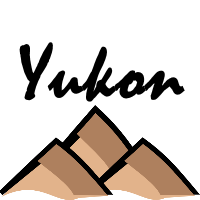
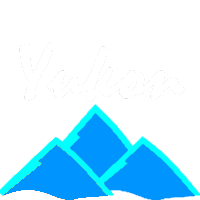
Implemented firebase for adding messages.

diff --git a/style.css b/style.css
@@ -1,8 +1,9 @@
 h1 {
     display: inline;
-    border: 2px solid darkgray;
+    border: 2px outset #C9FFE5;
     padding: 5px;
-    background: white;
+    background: #FFFFFF;
+    color: #000000;
     display: flex;
     justify-content: center;
     border-radius: 10px;
@@ -14,9 +15,13 @@ a {
 }
 
 html {
-    background-color: #DCDCDC;
+    background-color: #000000;
     font-family: 'Arial';
     height: 100%;
+}
+
+body {
+    min-height: 100%;
 }
 
 #yukonimage {
@@ -58,7 +63,6 @@ img:hover {
 }
 
 #chatlog::-webkit-scrollbar {
-    position: fixed;
     width: 10px;
 }
 
@@ -77,7 +81,7 @@ img:hover {
     width: 70%;
     padding: 15px;
     margin: 5px 10px 0;
-    background: darkgray;
+    background: #89CFF0;
     border-radius: 10px;
     color: #fff;
     font-size: 18px;
@@ -90,22 +94,23 @@ img:hover {
 }
 
 .chatform textarea {
-    background: #FBFBFB;
+    background: #DBE9F4;
     width: 75%;
     height: 50px;
-    border: 2px solid lightgray;
+    border: 2px solid #C9FFE5;
     border-radius: 10px;
     resize: none;
 }
 button {
-    border: 1px outset darkgray;
-    background-color: gray;
+    border: 2px outset #C9FFE5;
+    background-color: #7CB9E8;
     color: white;
     cursor: pointer;
 }
 
 button:hover {
-    background-color: silver;
+    background-color: #C9FFE5;
+    color: #000000;
 }
 
 button[id="send"] {
@@ -114,12 +119,39 @@ button[id="send"] {
     border-radius: 10px;
 }
 
+button[id="username"] {
+    display: flex;
+    justify-content: center;
+    margin: 0 auto;
+    font-size: 30px;
+    height: 70px;
+    width: 30%;
+    border-radius: 10px;
+}
+
 button[id="chat"] {
     display: flex;
     justify-content: center;
     margin: 0 auto;
-    font-size: 50px;
-    height: 100px;
-    width: 50%;
+    font-size: 25px;
+    height: 70px;
+    width: 30%;
     border-radius: 10px;
+}
+#enter_username {
+    display: flex;
+    justify-content: center;
+}
+
+#text_username {
+    display: flex;
+    justify-content: center;
+    background: #FBFBFB;
+    width: 30%;
+    height: 70px;
+    border: 2px solid lightgray;
+    border-radius: 10px;
+    resize: none;
+    text-align: center;
+    font-size: 25px;
 }

diff --git a/app.js b/app.js
@@ -1,33 +1,41 @@
-// function getText(text) {
-//     console.log(text.value);
-//     // Remove the text area content as the message has been stored.
-//     text.value="";
-// }
-
 function getText(text) {
     // Get the message from the textarea and store it in a variable 'msg'.
     var msg = document.getElementById("textarea");
-    // console.log(msg.value);
+
+    // If message is empty, alert no input!
+    if (msg.value == "") {
+        alert("Please enter a message!");
+        return false;
+    };
+
     // Insert the string as a div message and add to the chatbox.
     create(msg.value);
     var fragment = create("<div id=message>"+msg.value+"</div>");
     document.getElementById("chat").appendChild(fragment);
 
-    // TODO: Scroll to bottom of chatbox.
+    // Create a new reference to a location (folder) named messages.
+    let messagesRef = firebase.database().ref("messages");
+    // Create a new message in the firebase.
+    messagesRef.push().set(msg.value);
 
-    var objDiv = document.getElementById("chat");
-    objDiv.scrollTop = objDiv.scrollHeight;
+    // Scroll to bottom of chatbox.
+    scrollToBottom();
 
     // Remove the text area content as the message has been stored.
     textarea.value = "";
 }
 
 function create(htmlStr) {
-    var frag = document.createDocumentFragment(),
-        temp = document.createElement('div');
+    var frag = document.createDocumentFragment();
+    var temp = document.createElement('div');
+
     temp.innerHTML = htmlStr;
     while (temp.firstChild) {
         frag.appendChild(temp.firstChild);
     }
     return frag;
+}
+
+function scrollToBottom() {
+    document.getElementById("chatlog").scrollTop = document.getElementById("chatlog").scrollHeight;
 }

diff --git a/username.html b/username.html
@@ -3,18 +3,21 @@
     <meta charset="utf-8" name="viewport" content="width=device-width, initial-scale=1">
     <link rel="stylesheet" type="text/css" href="style.css">
     <head>
-        <title>Welcome - Yukon</title>
+        <title>Enter Username - Yukon</title>
         <div id="yukonimage">
                 <a href="index.html">
                     <img src="Yukon.png"alt="Welcome to Yukon!" />
                 </a>
         </div>
-        <h1>Welcome to Yukon!</h1>
+        <h1>Username</h1>
     </head>
     <body background="space.jpg">
         <form>
-            <a href="username.html">
-                <button id="username" type="button">Chat</button>
+            <div id="enter_username">
+                <input type="text" id="text_username" placeholder="Type your username here..."></input>
+            </div>
+            <a href="chat.html">
+                <button id="chat" type="button" onclick="Username(text_username); return false">Go to Yukon Chat</button>
             </a>
         </form>
     </body>

diff --git a/chat.html b/chat.html
@@ -11,7 +11,7 @@
         </div>
         <h1>Chat</h1>
     </head>
-    <body background="gray-background.jpg">
+    <body background="space.jpg">
         <div id="chatbox">
 
             <div id = "chatlog">
@@ -31,4 +31,19 @@
         </div>
     </body>
     <hr />
+
+<script src="https://www.gstatic.com/firebasejs/4.6.2/firebase.js"></script>
+<script>
+  // Initialize Firebase
+  var config = {
+    apiKey: "AIzaSyDnVJu4eoOK8CjZww21XuaBXePfhNUZgDg",
+    authDomain: "yukon-11.firebaseapp.com",
+    databaseURL: "https://yukon-11.firebaseio.com",
+    projectId: "yukon-11",
+    storageBucket: "",
+    messagingSenderId: "431803869203"
+  };
+  firebase.initializeApp(config);
+  console.log(firebase.apps);
+</script>
 </html>
